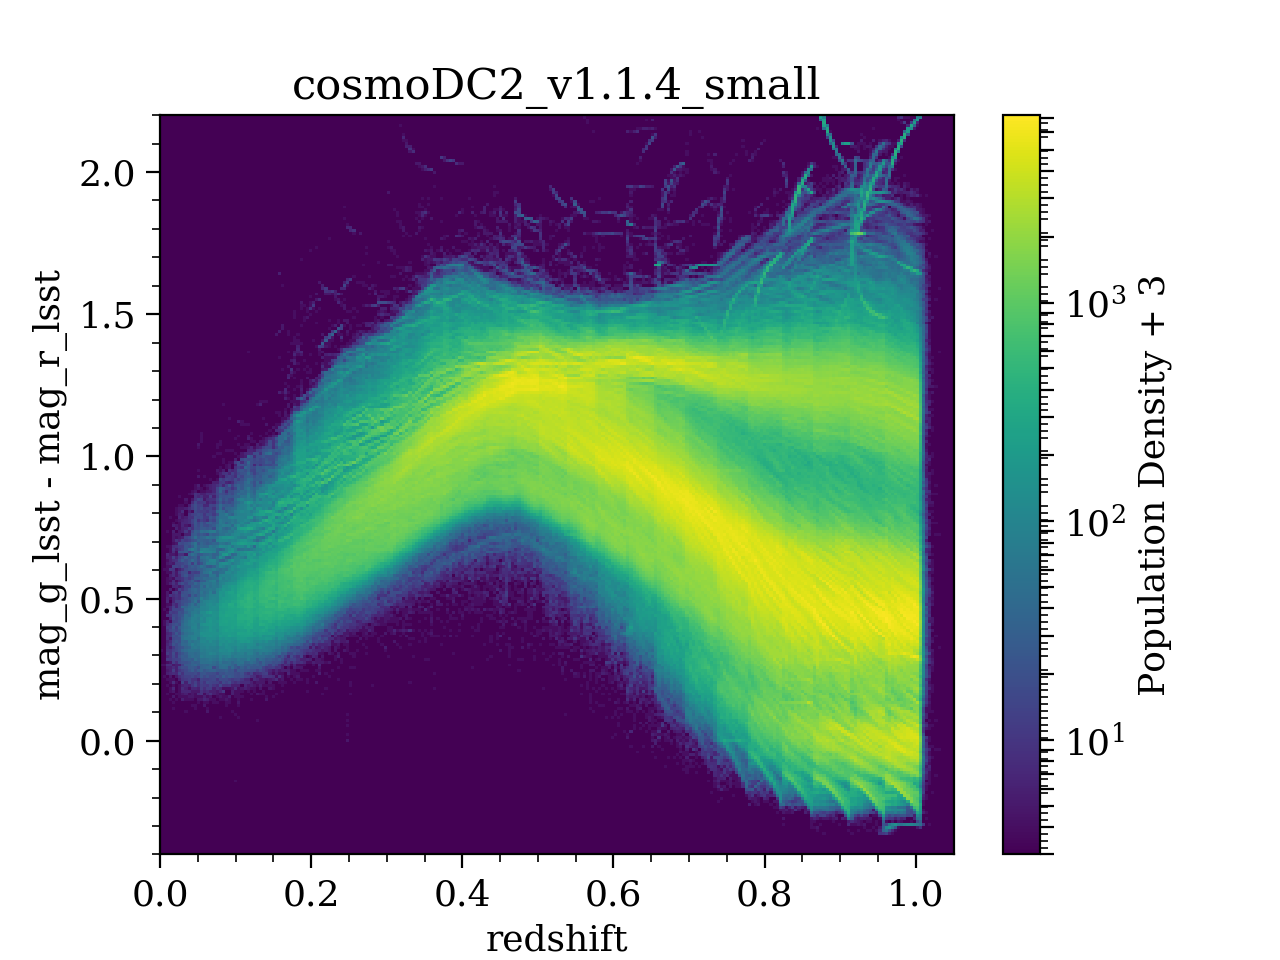
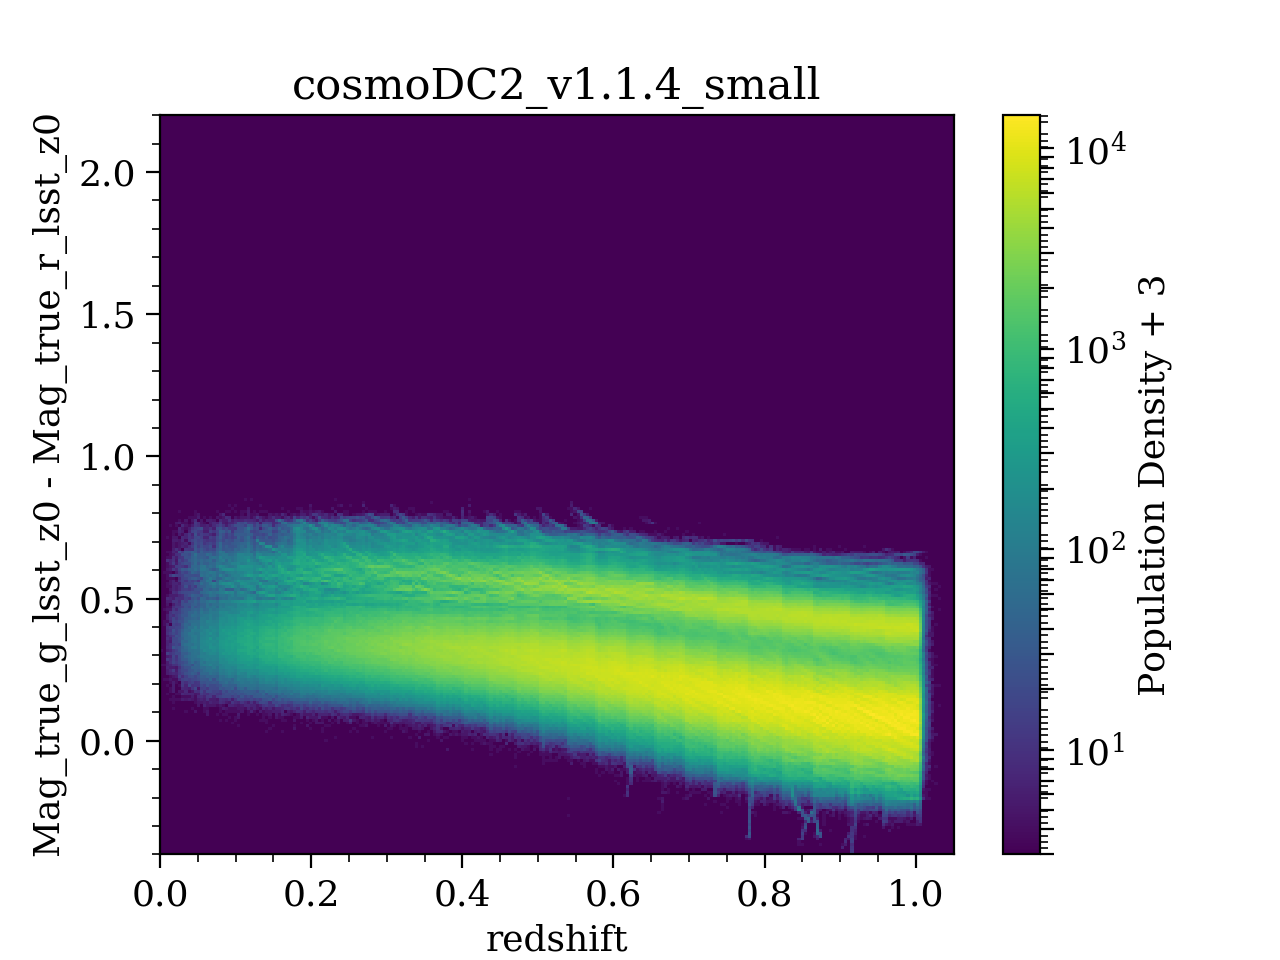
README.md

diff --git a/contributed/plots/dkorytov/README.md b/contributed/plots/dkorytov/README.md
@@ -19,8 +19,8 @@ not (as specified in baseDC2).
 
 # Figs
 
-Figure 1 & 2 are typical checks. Figure 3 is applying a multitude of
-cuts.
+Figure 1 is restframe colors. Fig 2 & 3 are observer colors. Figure 4
+is applying a multitude of cuts. 
 
 
 # DESCQA link:
